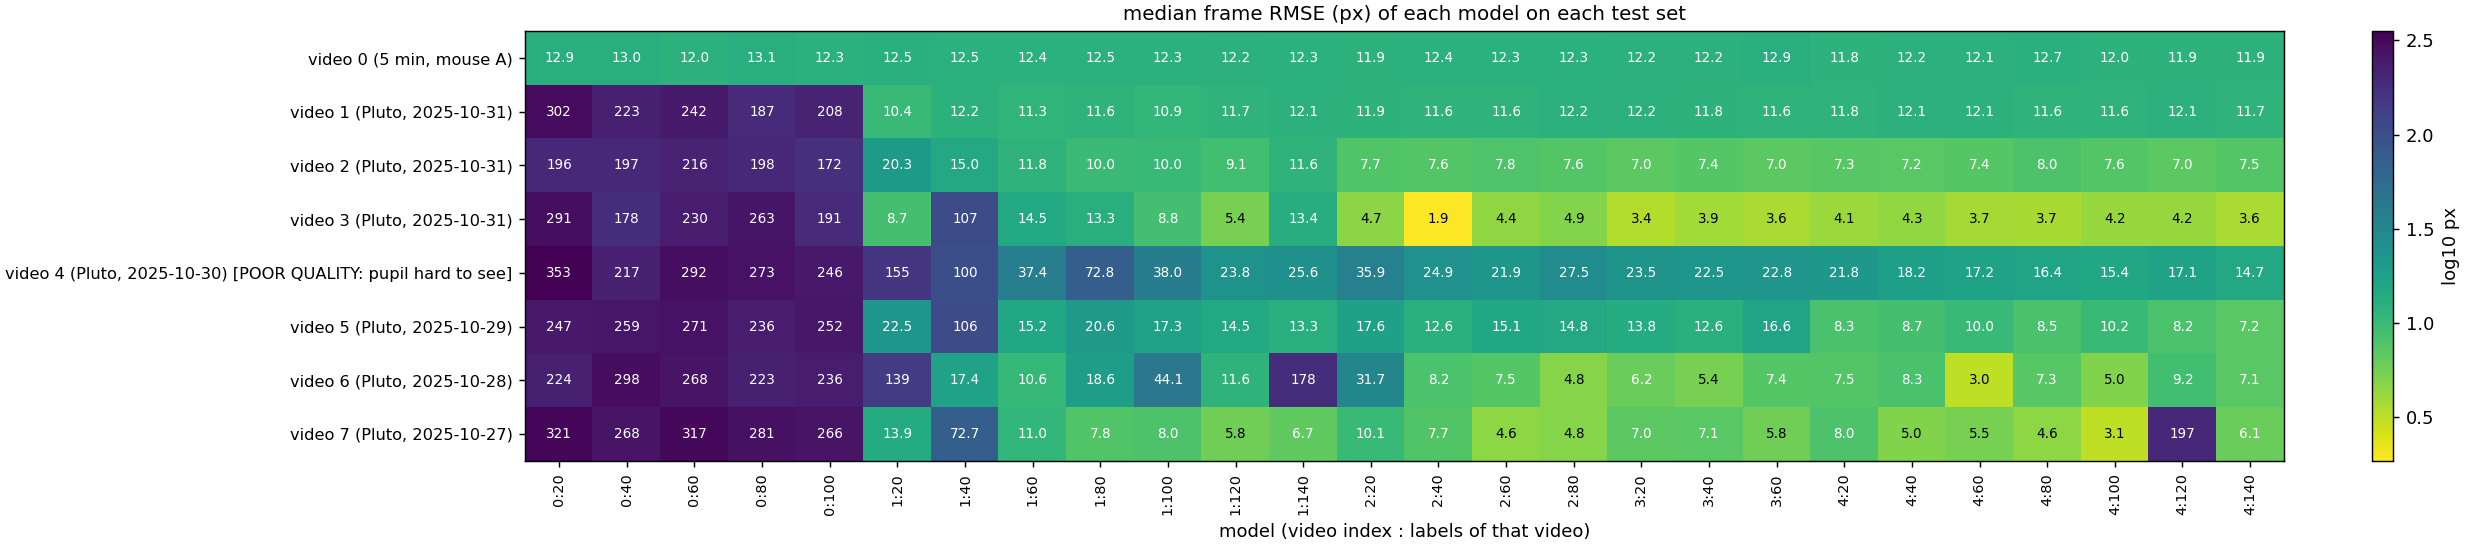
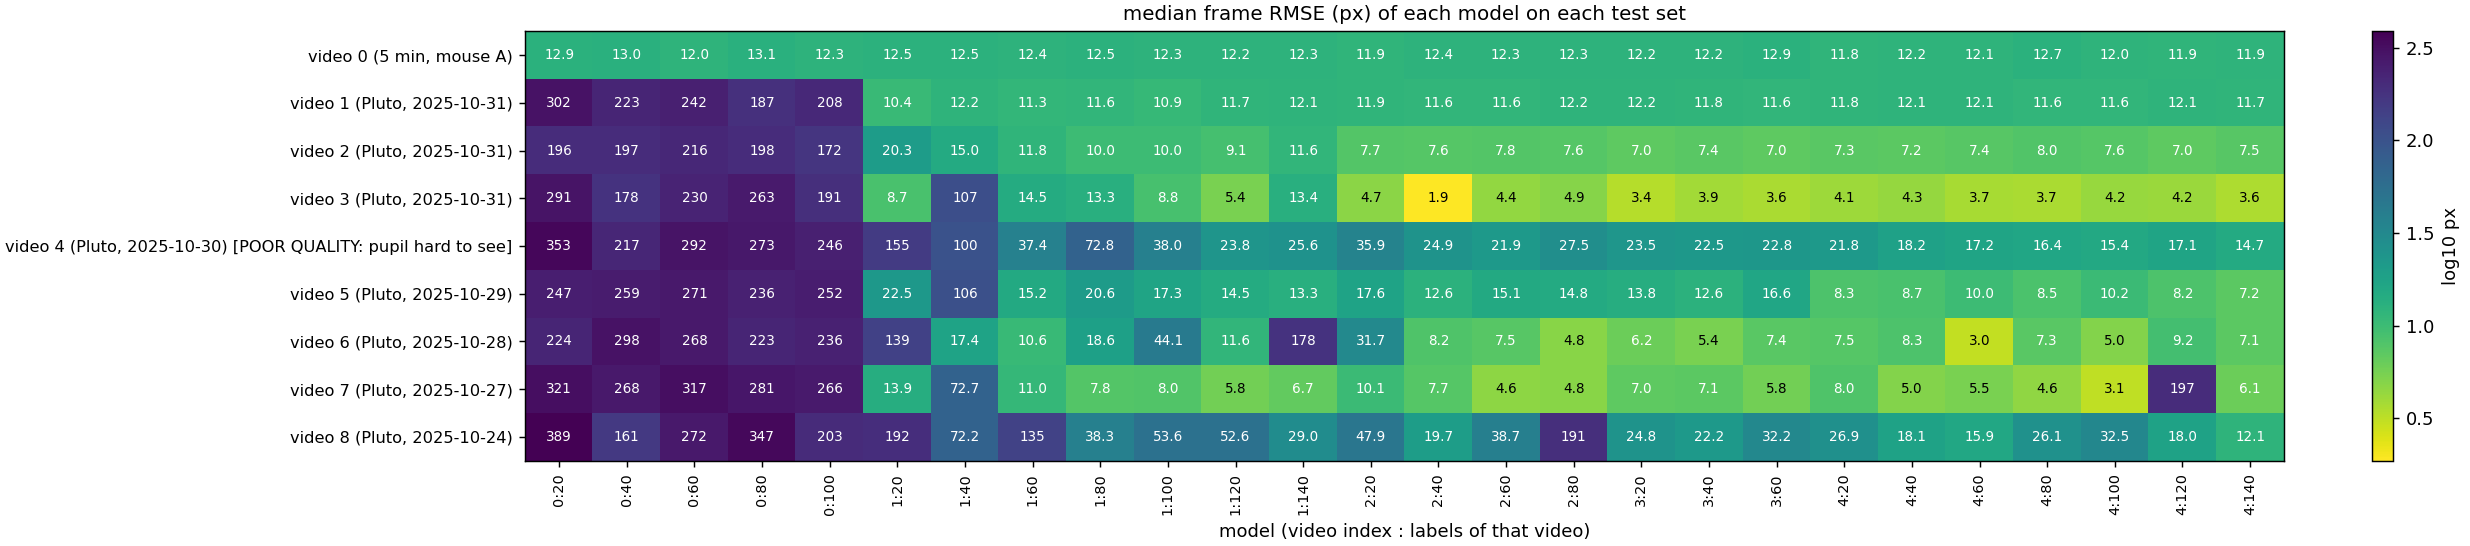
Videos 8-10 (2025-10-24/23/22) added; video 8 test set frozen and scored by all models

diff --git a/new_pupil_top_video_scaling/scripts/cross_video_eval.py b/new_pupil_top_video_scaling/scripts/cross_video_eval.py
@@ -35,6 +35,9 @@ VIDEOS = [
     ("5_20251029_Pluto_spont_1", "mouse B (Pluto)", "2025-10-29", "auto:61"),
     ("6_20251028_Pluto_spont_1", "mouse B (Pluto)", "2025-10-28", "auto:71"),
     ("7_20251027_Pluto_spont1", "mouse B (Pluto)", "2025-10-27", "auto:81"),
+    ("8_20251024_Pluto_spont1", "mouse B (Pluto)", "2025-10-24", "auto:91"),
+    ("10_20251022_Pluto1", "mouse B (Pluto)", "2025-10-22", "auto:111"),
+    ("9_20251023_Pluto1", "mouse B (Pluto)", "2025-10-23", "auto:101"),
 ]
 # labels of a video that are carried into later videos (the "prior" used when the next video started)
 CARRIED = {"0_first5minvedio": 100, "1_20251031_Pluto_spont_1": 100, "2_20251031_pluton2": 60, "3_20251031_pluto3": 60}

diff --git a/README.md b/README.md
@@ -17,7 +17,7 @@ per-frame predictions stay local; git carries code, documentation and audited ag
 | Videos done | video 0 (mouse A, 5 min), videos 1-3 (mouse B "Pluto", 2025-10-31) |
 | In progress | **video 4** (Pluto, 2025-10-30, poor image quality): 140 labels = 14.74 px, new best (120 labels was 17.10 px); plateau not reached |
 | Blink / area analysis | per-video time series in `<video>/results/blink_area_analysis/`; across videos (`new_pupil_top_video_scaling/results/blink_area_consistency.png`): 4-point area better on 7 of 8 test sets; lowest pupil confidence < ~0.2 separates all 16 human closed-eye frames (the production 0.6 cut flags ~half of open frames); area correlates with eye opening in every video |
-| Test-set only | video 5 (2025-10-29), video 6 (2025-10-28) and video 7 (2025-10-27, test set being labeled): frozen test sets scored by every model so far |
+| Test-set only | videos 5-8 (2025-10-29 / 28 / 27 / 24): frozen test sets scored by every model so far; videos 9 (10-23) and 10 (10-22): test sets being labeled |
 
 ## Main results so far (era 3, `new_pupil_top_video_scaling/`)
 
@@ -50,7 +50,7 @@ What the numbers say:
 ```
 new_pupil_top_video_scaling/   era 3 (current): one folder per video, indexed by how many earlier videos are in
   0_first5minvedio/            the training set; each has results/ (tracked) and training-data/ (local only)
-  1_... 7_...                  videos 1-7 (mouse B)
+  1_... 10_...                 videos 1-10 (mouse B)
     results/selection_sheets/  per video: the cluster + time-series sheet of every selected batch
     results/blink_area_analysis/ per video: eye time series and blink / pupil-area studies
   results/                     across videos: labels-to-plateau table, cross-video back-test, pupil-area study

diff --git a/new_pupil_top_video_scaling/README.md b/new_pupil_top_video_scaling/README.md
@@ -31,6 +31,9 @@ results/                 ACROSS videos: x = number of videos, y = labels needed 
 5_20251029_Pluto_spont_1/ video 5 (mouse B, 2025-10-29): frozen test set only (scored by every model)
 6_20251028_Pluto_spont_1/ video 6 (mouse B, 2025-10-28): frozen test set only (scored by every model)
 7_20251027_Pluto_spont1/  video 7 (mouse B, 2025-10-27): frozen test set only (scored by every model)
+8_20251024_Pluto_spont1/  video 8 (mouse B, 2025-10-24): frozen test set only (scored by every model)
+9_20251023_Pluto1/       video 9 (mouse B, 2025-10-23): test set being labeled
+10_20251022_Pluto1/      video 10 (mouse B, 2025-10-22): test set being labeled
 ```
 
 Per video: 50 test frames (final 10%, at least 60 s), 20 validation frames (the 10% before), 2-s guard bands,
